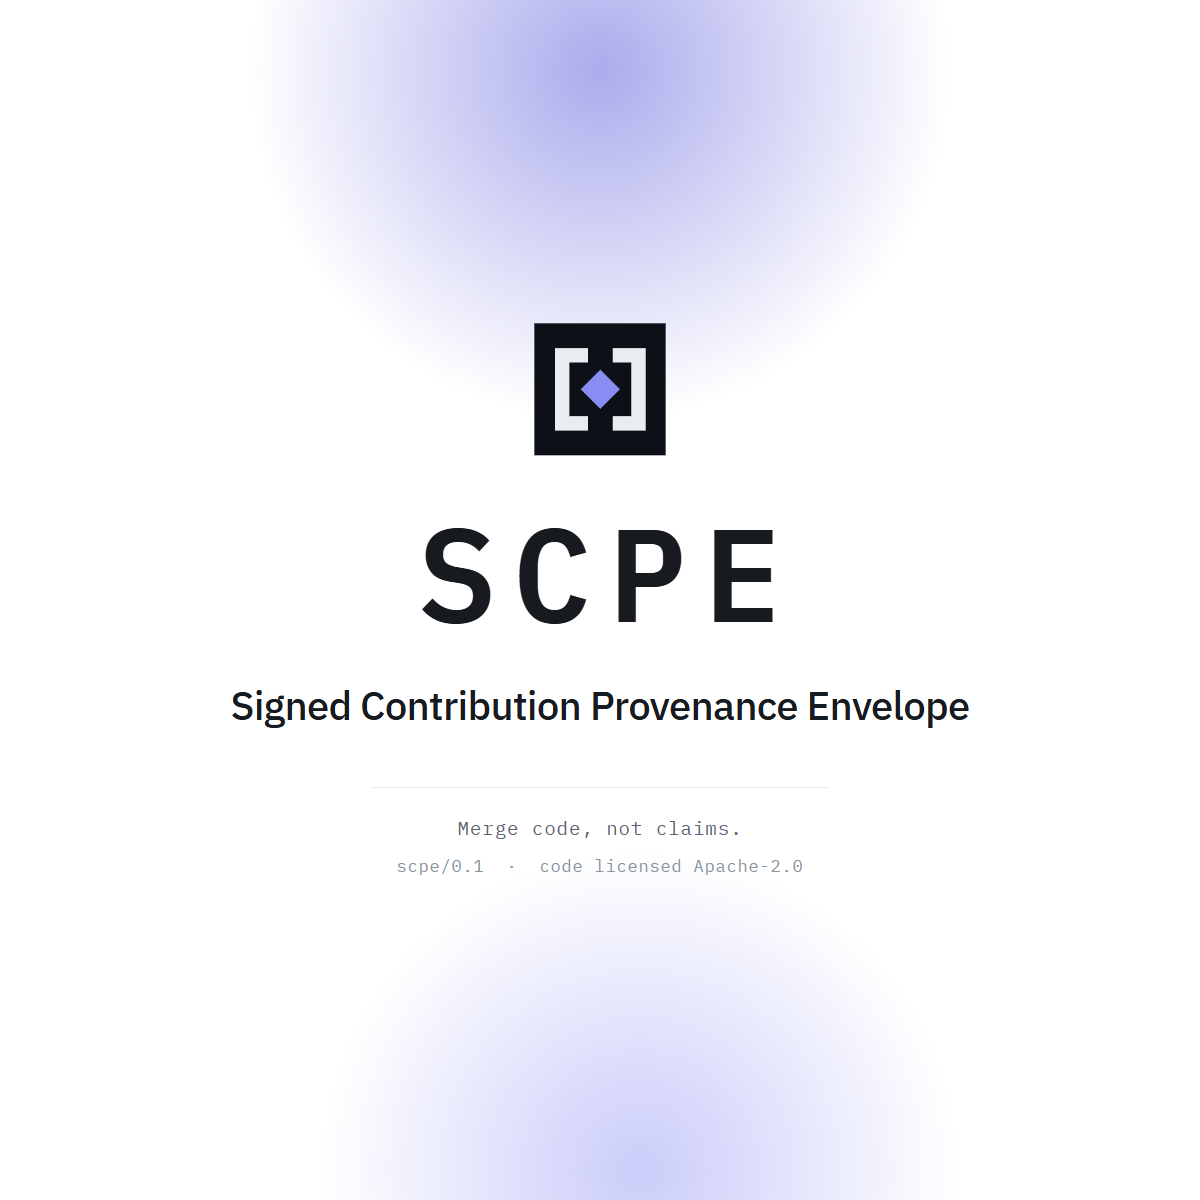
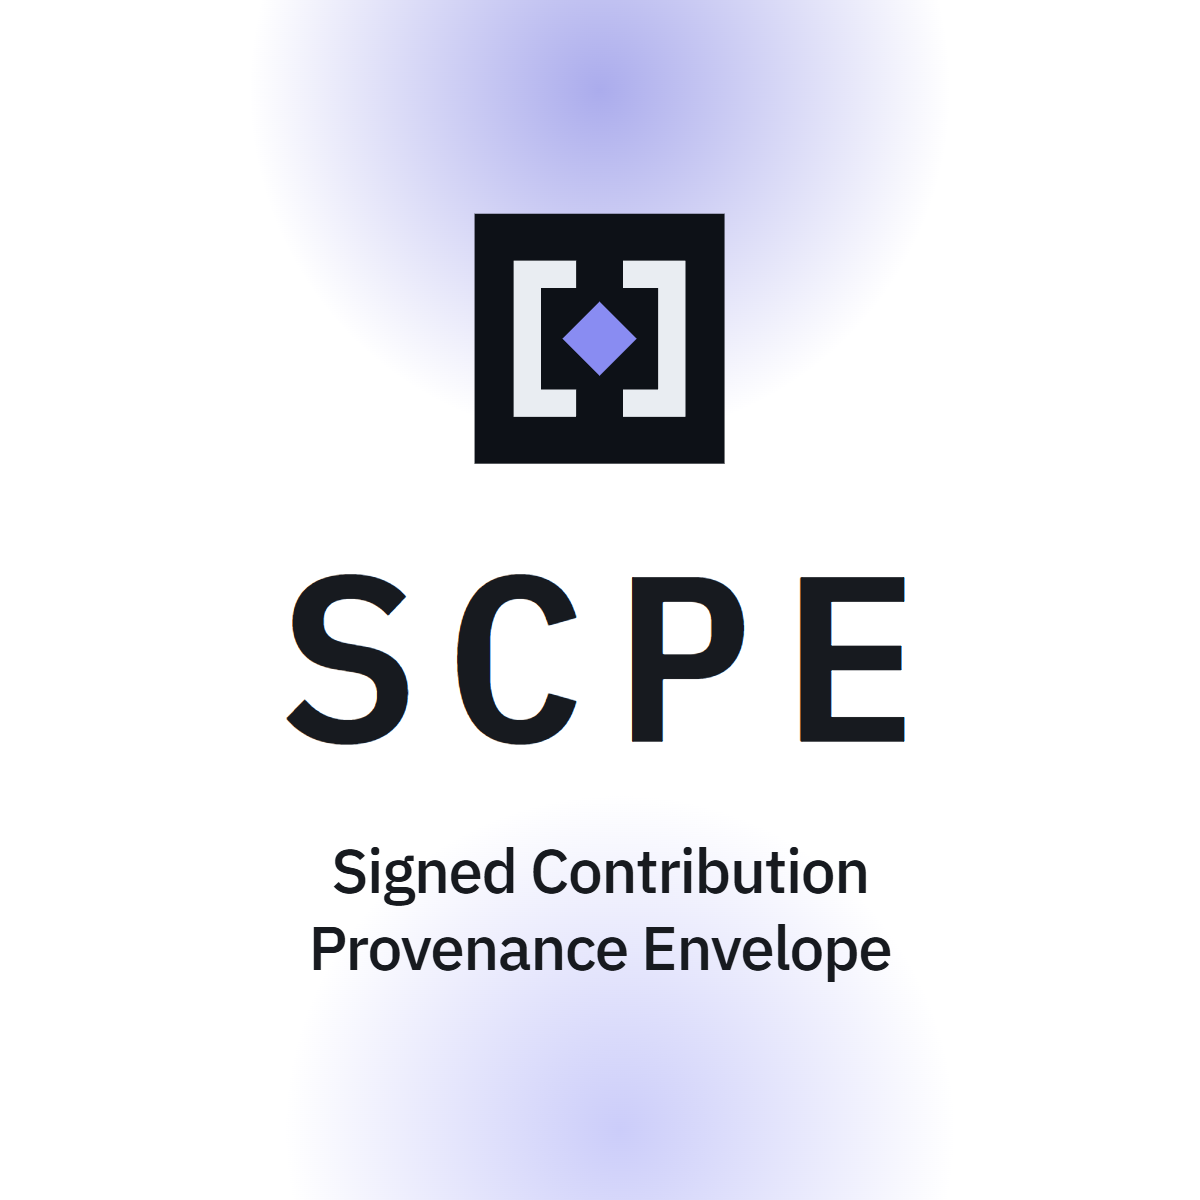
docs(brand): size the tile lockup for the size it is seen at
A portfolio tile renders around 190px wide. At the previous scale the expansion
landed near 6px there and the whole lockup read as a smudge — technically
present, practically invisible.

Everything under roughly 70px in a 1200px file falls below 11px on the tile, so
the strapline and the licence line are gone: at that size they were texture, not
information. The mark, the wordmark and the expansion are scaled to survive, and
the expansion breaks explicitly into two balanced lines instead of ragging into
three. Checked by downscaling the export to 190px and reading it, not by
eyeballing it at full size.

Changed region(s): [[0.185, 0.4317, 0.8017, 0.6475], [0.37, 0.1542, 0.6167, 0.4008], [0.2467, 0.6783, 0.74, 0.8325]]

diff --git a/docs/brand/thumb-tile.html b/docs/brand/thumb-tile.html
@@ -1,33 +1,27 @@
 <!doctype html>
 <html><head><meta charset="utf-8"><link rel="stylesheet" href="_style.css">
 <style>
-  /* 1200 x 1200 — the version for grid tiles.
-     thumb.html follows the site's left-aligned hero, which is right for a poster and wrong
-     for a thumbnail: a portfolio grid crops to its own aspect and lands on the empty right
-     half, so the tile renders as a blank white rectangle. Here the lockup is centred on both
-     axes with symmetric margins, so any centred crop — square or landscape — still contains
-     it. Same tokens, same mark, same strapline; only the composition changes. */
+  /* 1200 x 1200 — the version for grid tiles, sized for the size it is actually seen at.
+     A portfolio tile renders around 190px wide. Anything under roughly 70px in this file
+     lands below 11px there and stops being read, so the strapline and the licence line are
+     gone: at tile size they were texture, not information. What survives is the mark, the
+     wordmark, and the expansion — and they are scaled to survive.
+     Centred on both axes so a square or landscape crop still contains the lockup. */
   .frame { width: 1200px; height: 1200px; display: grid; place-items: center; }
   .frame::before, .frame::after { content: ''; position: absolute; pointer-events: none; }
-  .frame::before { width: 900px; height: 900px; top: -380px; left: 150px; background: var(--wash-1); }
-  .frame::after  { width: 820px; height: 820px; bottom: -380px; left: 230px; background: var(--wash-3); }
+  .frame::before { width: 900px; height: 900px; top: -360px; left: 150px; background: var(--wash-1); }
+  .frame::after  { width: 860px; height: 860px; bottom: -360px; left: 190px; background: var(--wash-3); }
 
   .lockup { position: relative; z-index: 1; text-align: center; }
-  .mark { width: 132px; height: 132px; display: block; margin: 0 auto 52px; }
+  .mark { width: 250px; height: 250px; display: block; margin: 0 auto 72px; }
   .word {
     font-family: 'IBM Plex Mono', monospace;
-    font-size: 132px; font-weight: 600; letter-spacing: 16px; line-height: 1;
-    text-indent: 16px;   /* the tracking adds a trailing gap; nudge back to true centre */
+    font-size: 236px; font-weight: 600; letter-spacing: 26px; line-height: 1;
+    text-indent: 26px;   /* tracking adds a trailing gap; nudge back to true centre */
   }
-  .expand { font-size: 40px; font-weight: 500; letter-spacing: -.7px; margin-top: 40px; }
-  .rule { height: 1px; background: var(--line); margin: 56px auto 0; width: 62%; }
-  .strap {
-    font-family: 'IBM Plex Mono', monospace;
-    font-size: 19px; letter-spacing: 1px; color: var(--body); margin-top: 28px;
-  }
-  .meta {
-    font-family: 'IBM Plex Mono', monospace;
-    font-size: 17px; letter-spacing: .8px; color: var(--faint); margin-top: 14px;
+  .expand {
+    font-size: 62px; font-weight: 500; letter-spacing: -1.4px; line-height: 1.24;
+    margin: 60px auto 0;
   }
 </style>
 </head>
@@ -36,10 +30,7 @@
   <div class="lockup">
     <svg class="mark" viewBox="0 0 64 64" xmlns="http://www.w3.org/2000/svg"><rect width="64" height="64" fill="#0D1117"/><path fill="#E9EDF2" d="M10 12H26V19H17V45H26V52H10ZM54 12H38V19H47V45H38V52H54Z"/><path fill="#898CF2" d="M32 22.5 41.5 32 32 41.5 22.5 32Z"/></svg>
     <div class="word">SCPE</div>
-    <div class="expand">Signed Contribution Provenance Envelope</div>
-    <div class="rule"></div>
-    <div class="strap">Merge code, not claims.</div>
-    <div class="meta">scpe/0.1 &nbsp;·&nbsp; code licensed Apache-2.0</div>
+    <div class="expand">Signed Contribution<br>Provenance Envelope</div>
   </div>
 </div>
 </body></html>
